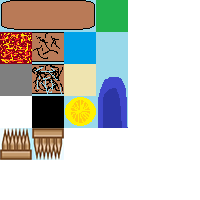
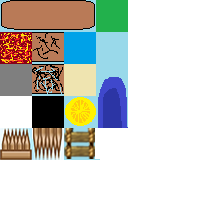
ladders added, climbing possible

Changed region(s): [[0.15, 0.63, 0.51, 0.81]]

diff --git a/LemmingsClone/LemmingsClone/Player.cpp b/LemmingsClone/LemmingsClone/Player.cpp
@@ -5,6 +5,7 @@ Player::Player(SFMLtilex* map) {
 
 	pMap = map;
 	cDig = false;
+	cClimb = false;
 	showSpeedText = false;
 	showControlText = false;
 	jumpImp = 0;
@@ -26,6 +27,7 @@ void Player::setupPlayer(){
 	turn = true;
 	start = false;
 	win = false;
+	cClimb = false;
 	dead = false;
 	speed = 1.85f;
 	currentDir = direction::INITIAL;
@@ -61,7 +63,8 @@ void Player::setupText(){
 	string s = "Escape:\t Exit\n";
 		  s += "Arrows: \tMove\n";
 			s+="Space: \t Jump\n";
-			s+= "D:  \t\tdig\n\n";
+			s+= "D:  \t\tdig\n";
+			s += "E:  \t\tclimbUp\n";
 			s += "R:  \t\trestart\n\n";
 			s+="C:  \t\tshow developer Console\n";
 			s+="M:  \t\tshow Map in Console\n";
@@ -129,9 +132,12 @@ void Player::move(){
 		++steps;
 		// Bewegung in x richtung
 
-		if(walk)
+		if (walk) {
 			moveX();
-
+		}
+		if (cClimb) {
+			climb();
+		}
 		//Bewegung in Y richtung
 		moveY();
 
@@ -174,6 +180,7 @@ void Player::moveX(){
 			case tileshape::LEFTBLOCK:
 			case tileshape::RIGHTBLOCK:
 				//	cout << " STOP " << endl;
+				cClimb = false;
 				setX(xOld);
 				if(isFalling||isJumping)
 					move(direction::STOP);
@@ -188,6 +195,14 @@ void Player::moveX(){
 						move(direction::STOP);
 				}
 				break;*/
+			case tileshape::LADDER:
+				if (!walk) {
+					cClimb = false;
+				}
+				if (cClimb && !isJumping && !isFalling) {
+					climb();
+				}
+				break;
 			case tileshape::LAVA:
 			case tileshape::SPIKE_UP:
 			case tileshape::SPIKE_DOWN:
@@ -299,6 +314,7 @@ void Player::moveY(){
 				case tileshape::LEFTBLOCK:
 				case tileshape::RIGHTBLOCK:
 					isJumping=isFalling=mayFall = false;
+					cClimb = false;
 					jumpImp=0;
 					if(v<=0){ //wenn er springt
 						newPosition= tCurrent.tilepos.getGlobalBounds().top+tCurrent.tilepos.getGlobalBounds().height;
@@ -307,6 +323,14 @@ void Player::moveY(){
 					}
 					if (die)
 						dead = true;
+					break;
+				case tileshape::LADDER:
+					if (!walk) {
+						cClimb = false;
+					}
+					if (cClimb && !isJumping && !isFalling) {
+						climb();
+					}
 					break;
 			/*	cased tileshape::DIGBLOCK:
 					if (walk == false) {
@@ -385,4 +409,70 @@ bool Player::isDead() {
 void Player::setDead(bool rev) {
 	dead = rev;
 	win = rev;
+}
+
+void Player::setClimb() {
+	cClimb = true;
+}
+
+void Player::climb() {
+
+	float yOld = pos.y;
+	float moveStep = step*(0.002f);
+	
+	setY(pos.y - moveStep);
+	//cout << "MOVE" << endl;
+	/* check left */
+	if (pos.y<0)
+		setY(0);
+
+	/* check right */
+	if ((pos.y + playerHeight)>bounds.y)
+		setY(bounds.y - playerHeight);
+
+
+	for (int counter = 0; counter < cTileColMap.size(); ++counter) {
+		tilePos tCurrent = cTileColMap[counter];
+		if (playerShape.getGlobalBounds().intersects(tCurrent.tilepos.getGlobalBounds())) {
+			switch (cTileColMap[counter].type)
+			{
+			case tileshape::UPPERPORTAL:
+			case tileshape::LOWERPORTAL:
+				cout << " WIN!! " << endl;
+				win = true;
+
+				return;
+
+			
+			case tileshape::LADDER:
+				if (!walk) {
+					cClimb = false;
+				}
+				if (cClimb && !isJumping && !isFalling) {
+					climb();
+				}
+				break;
+			case tileshape::LAVA:
+			case tileshape::SPIKE_UP:
+			case tileshape::SPIKE_DOWN:
+				dead = true;
+				return;
+			default: break;
+			}
+
+		}
+	}
+
+	//cDig = false;
+
+	if (step<1000) {
+		if (acc<30)
+			++acc;
+		step += (acc*speed);
+	}
+
+	if (step>1000) {
+		step = 1000;
+	}
+
 }

diff --git a/LemmingsClone/LemmingsClone/SFMLtilex.hpp b/LemmingsClone/LemmingsClone/SFMLtilex.hpp
@@ -7,7 +7,7 @@
 #include "NLTmxMap.hpp"
 
 //enum class tileshape {SKY=8,UPPERPORTAL=12, LOWERPORTAL=16, LEFTBLOCK=1, MIDDLEBLOCK=2, RIGHTBLOCK=3, START = 15, LAVA =5, DIGBLOCK=6, MIDDLEBREAK_1 = 6, MIDDLEBREAK_2 = 10, SPIKE_UP = 17, SPIKE_DOWN = 18}; //Enumeration der verschiedenen Tiles
-enum class tileshape { SKY = 10, UPPERPORTAL = 16, LOWERPORTAL = 22, LEFTBLOCK = 1, MIDDLEBLOCK = 2, RIGHTBLOCK = 3, START = 21, LAVA = 7, DIGBLOCK = 15, MIDDLEBREAK_1 = 8, MIDDLEBREAK_2 = 14, SPIKE_UP = 25, SPIKE_DOWN = 26 }; //Enumeration der verschiedenen Tiles
+enum class tileshape { SKY = 10, UPPERPORTAL = 16, LOWERPORTAL = 22, LEFTBLOCK = 1, MIDDLEBLOCK = 2, RIGHTBLOCK = 3, START = 21, LAVA = 7, DIGBLOCK = 15, MIDDLEBREAK_1 = 8, MIDDLEBREAK_2 = 14, SPIKE_UP = 25, SPIKE_DOWN = 26, LADDER = 27}; //Enumeration der verschiedenen Tiles
 
 
 struct tilePos{

diff --git a/LemmingsClone/LemmingsClone/SFMLtilex.cpp b/LemmingsClone/LemmingsClone/SFMLtilex.cpp
@@ -321,6 +321,20 @@ void SFMLtilex::loadTileshapes(){
 
 	tileshapes.insert(tileshapes.begin() + (int)tileshape::SPIKE_DOWN, shapeSpikeDOWN);
 	tileshapes.erase(tileshapes.begin() + (int)tileshape::SPIKE_DOWN + 1);
+
+	/*LADDER*/
+
+	sf::ConvexShape shapeLADDER;
+	shapeLADDER.setPointCount(4);
+
+	shapeLADDER.setPoint(0, sf::Vector2f(0, 0));
+	shapeLADDER.setPoint(1, sf::Vector2f(32, 2));
+	shapeLADDER.setPoint(2, sf::Vector2f(32, 32));
+	shapeLADDER.setPoint(3, sf::Vector2f(0, 32));
+
+
+	tileshapes.insert(tileshapes.begin() + (int)tileshape::LADDER, shapeLADDER);
+	tileshapes.erase(tileshapes.begin() + (int)tileshape::LADDER + 1);
 }
 
 void SFMLtilex::showMapContent(){

diff --git a/LemmingsClone/LemmingsClone/Player.hpp b/LemmingsClone/LemmingsClone/Player.hpp
@@ -58,6 +58,7 @@ private:
 	bool win;
 	bool dead;
 	bool cDig;
+	bool cClimb;
 
 	void refreshPos() { playerShape.setPosition(pos); };
 
@@ -96,6 +97,8 @@ setTexture(const sf::Texture* texture) { playerShape.setFillColor(sf::Color::Whi
 	void inline draw(sf::RenderWindow& window) { drawMap(window); drawPlayer(window); };
 	void consoleMap() { pMap->showMapContent(); }
 	void dig() {cDig = true;}
+	void setClimb();
+	void climb();
 	void inline toogleSpeedText(){ showSpeedText = !showSpeedText; }
 	void inline toogleControlText() { showControlText = !showControlText; }
 };

diff --git a/LemmingsClone/LemmingsClone/main.cpp b/LemmingsClone/LemmingsClone/main.cpp
@@ -56,10 +56,11 @@ int main(int argc, const char * argv[])
 				case sf::Keyboard::D:
 					player->dig();
 					break;
+				case sf::Keyboard::E:
+					player->setClimb();
+					break;
 				case sf::Keyboard::R:
 					delete player;
-					delete f;
-					f = new SFMLtilex("prototype.tmx");
 					player = new Player(f);
 					player->setTexture(&texture);
 					break;
